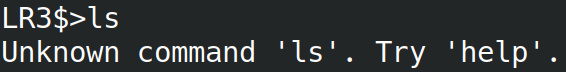
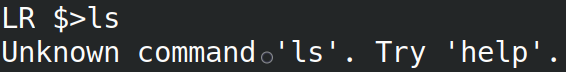
changed prompt

Changed region(s): [[0.0601, 0.0833, 0.0901, 0.3889], [0.4505, 0.6944, 0.4806, 0.8889]]

diff --git a/report/modules/chapters/data_structures_description.tex b/report/modules/chapters/data_structures_description.tex
@@ -44,7 +44,7 @@
 \begin{itemize}
     \item Command command = Command::NONE; -- команда к выполнению
     \item std::string command\_str{}; -- введённая команда
-    \item const std::string prompt = "LR3\$>"; -- приглашение командной строки
+    \item const std::string prompt = "LR \$>"; -- приглашение командной строки
     \item TruckDataBase *tp; -- указатель на БД, над которой производится выполнение команды
 \end{itemize}
 

diff --git a/src/cmd.h b/src/cmd.h
@@ -26,7 +26,7 @@ struct Cmd
 {
     Command command = Command::NONE;
     std::string command_str{};
-    const std::string prompt = "LR3$>";
+    const std::string prompt = "LR $>";
     TruckDataBase *tp;
 
     Command Get();
